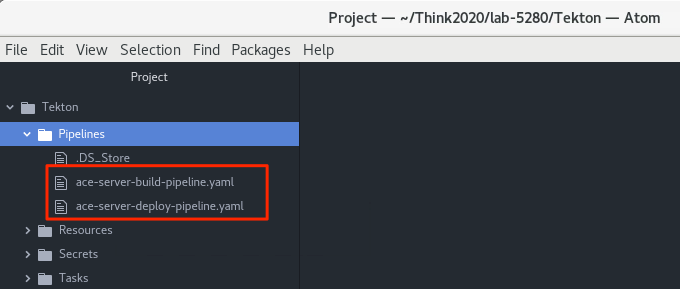
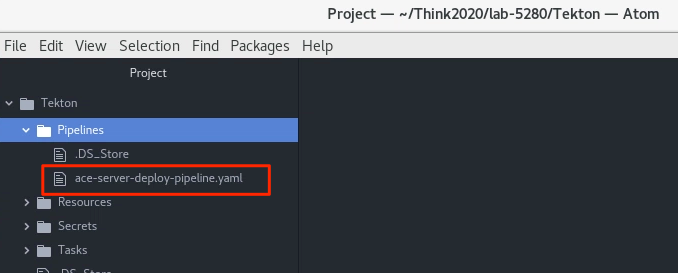
updated

Changed region(s): [[0.0, 0.3516, 0.4646, 1.0], [0.0, 0.1172, 1.0, 0.293], [0.4646, 0.0293, 0.9912, 0.0879]]

diff --git a/lab-5280/Introduction.md b/lab-5280/Introduction.md
@@ -46,6 +46,10 @@ The artifacts for the lab can be found in the following directories.
 
 * `/home/ibmuser/Think2020/lab-5280`
 
+-
+Note: You will need an account on `github.com` to perform this lab. You can use your existing account if you have one. If not, you can create a account on [github.com](github.com) before proceeding.
+-
+
 ### Part 1: Test the the integration application locally using ACE docker image
 
 
@@ -149,7 +153,7 @@ Following diagram shows all the artifacts and the references between them:
 ![](./img/Tekton-pipeline.png)
 
 
-#####1. Define a pipeline to automate build and deploy ace integration application
+#####2. Define a pipeline to automate build and deploy ace integration application
 
 
 The definitions required to automate build and deploy an ace integration for this lab have been provided for you. You can find them in directory `/home/ibmuser/Think2020/lab-5280/Tekton`. 
@@ -160,27 +164,45 @@ Open a terminal window and change directory to `/home/ibmuser/Think2020/lab-5280
 
 You will see four directories  as shown above, where the name of each directory indicates the definitions it contains. Change into each directory and review the definitions provided for you. They will be as follows:
 
-1\. `Pipelines` : This directory contains two pipeline definitions `ace-server-build-pipeline.yaml` and `ace-server-deploy-pipeline.yaml`. The names of these definitions indicate the function being performed. 
+1\. `Pipelines` : This directory contains the pipeline definition `ace-server-deploy-pipeline.yaml`. As the name indicates, this definition is for the automated ace server deployment pipeline.  
 
-The first definition `ace-server-build-pipeline.yaml` builds an ace image with the compiled integration application bar file. The second definition `ace-server-deploy-pipeline.yaml` deployes the ace image that was built by the build pipeline to Cloud Pak for Integration OpenShift platform. 
+The definition `ace-server-deploy-pipeline.yaml` builds an ace image with the compiled integration application bar file and deployes the image to Cloud Pak for Integration OpenShift platform. 
 
 In terminal, type`atom` to open the editor to review these definitions.
 
 ![](./img/atom.png)
 
-Expand `Pipelines` and select each defintion to review these definitions provided for you. 
+Open the folder Tekton to view the definitions. 
+
+Expand `Pipelines` and select defintion to review the definition provided for you. 
 
 ![](./img/atom-pipelines.png)
 
 
-You can see the pipeline definitions are calling tasks `build-ace-server` and `install-ace-server `respectively. These tasks definitions are provided for you in the `Tasks` directory. 
+You can see the pipeline definition is calling tasks `build-image` and `install-ace-server`. The definitions for these tasks are in the `Tasks` directory. 
 
-2\. `Tasks` : This directory contains two task definitions `build-ace-server-task.yaml` and `install-ace-server-task.yaml`. The names of these task definitions indicate the function being performed. 
+2\. `Tasks` : In atom editor, expand this directory and you will see the two tasks definitions `build-ace-server-task.yaml` and `install-ace-server-task.yaml`. The names of these task definitions indicate the functions being performed respectively. 
 
-The first task definition `build-ace-server-task.yaml` builds an ace image with the compiled integration application bar file and pushes the image into OpenShift image registry. Review this task and you can see an input property `dockerfileLocation` from where it fetches Dockerfile to build the ace image. The tasks uses `Git` as input resource and `OpenShiftt image repository` as output resource. The `Dockerfile` used by the task can be found in directory `/home/ibmuser/Think2020/cp4i-ace-server`.
+![](./img/atom-tasks.png)
 
- and uses Git as input resource and uses ACE image from  and OpenShift image registry as output resource. The resource files are provided in `Resources` directory. 
 
-The second definition `ace-server-deploy-pipeline.yaml` deployes the ace image that was built by the build pipeline to Cloud Pak for Integration OpenShift platform. 
+The first task definition `build-ace-server-task.yaml` builds an ace image with the compiled integration application bar file and pushes the image into OpenShift image registry. 
 
-Review these definitions provided for you. You can see the pipeline definitions are calling tasks `build-ace-server` and `install-ace-server `respectively. These tasks definitions are provided for you in the `Tasks` directory.
+Select this task to review the definition and you can see an input property `dockerfileLocation` from where it fetches Dockerfile to build the ace image. The tasks uses `Git` as input resource and `OpenShift image repository` as output resource. The `Dockerfile` used by the task can be found in directory `/home/ibmuser/Think2020/cp4i-ace-server`. The build is performed by a cloud native tool called `buildah` which facilitates building container images. During execution of the pipeline, buildah is pulled from quay.io repository if it is not available locally. 
+
+Select the second task `ace-server-deploy-pipeline.yaml` to review the definition. This task deployes the ace image that was built by the build task to Cloud Pak for Integration OpenShift platform. This task requires CLI tools `oc, cloudctl and helm` to perform the deployment. When pipeline is executed, during the task run the docker image specifically built with these tools is pulled from `docker.io/pimandi/cloudctl-helm-oc`.
+
+3\. `Resources` : The resource definitions used by the tasks are provided for you in this directory. In atom editor, expand this directory and you will see the two resource definitions `cp4i-ace-server-source-pipelineresource.yaml` and `cp4i-ace-server-image-pipelineresource.yaml`. 
+
+![](./img/atom-resources.png)
+
+Click on each of these definitions and you can see the resources used by the tasks for the execution of the pipeline.  The resource uses a Git repo `https://github.com/ibm-cloudintegration/Think2020` for source and OpenShift image registry for the image. 
+
+4\. `Secrets` : Running the pipe requires access credentials to the input and output resources being used by the tasks. The definitions for secrets are provided for you. 
+
+In atom editor, expand this directory and you will see four definitions for secrets as shown below.  
+
+![](./img/atom-secrets.png)
+
+Click on each of these definitions and you can see the resources used by the tasks for the execution of the pipeline. 
+
